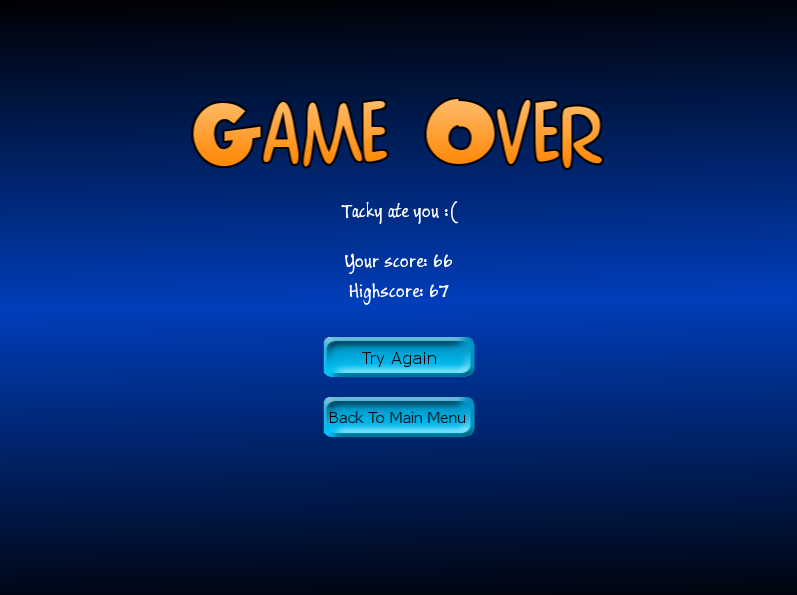
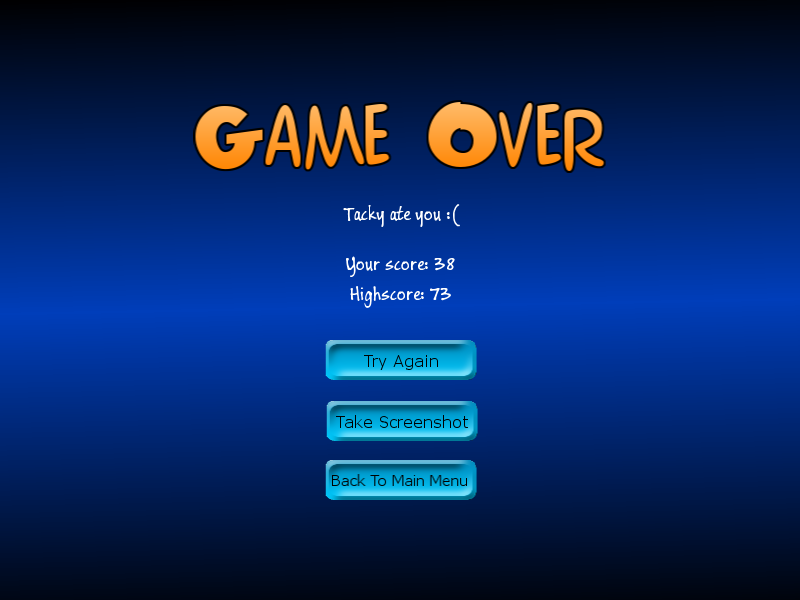
Updated to v2.0
See changelog for details.

diff --git a/CHANGELOG.md b/CHANGELOG.md
@@ -1,6 +1,17 @@
 ChangeLog
 ==========
 
+v2.0 (August 4, 2014)
+---
+- FIXED: Two or more apples spawning at the same place one after the other
+- Minor optimizations
+- Renamed "startmenu.lua" to "menu.lua"
+- Code cleanup
+- Modified enemy speed increments
+- Added option to take screenshot at game over
+- Added temporary speed increasing powerups
+- Released for Mac OSX
+
 v1.2 (July 7, 2014)
 ----
 - FIXED : Bugged reset highscore button
